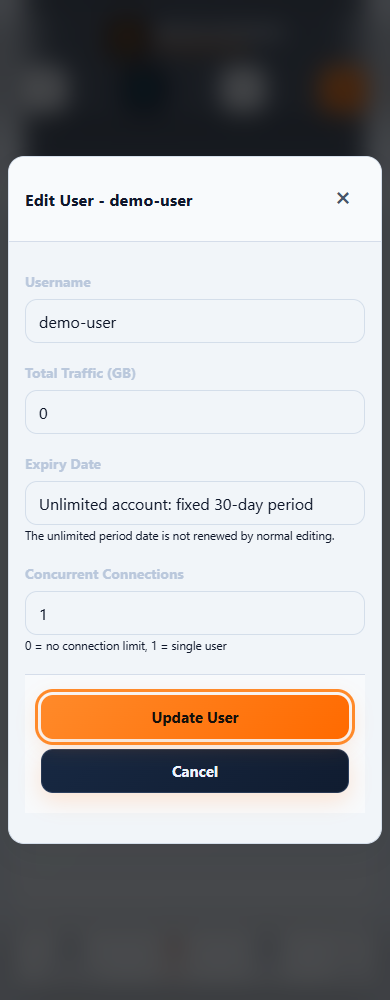
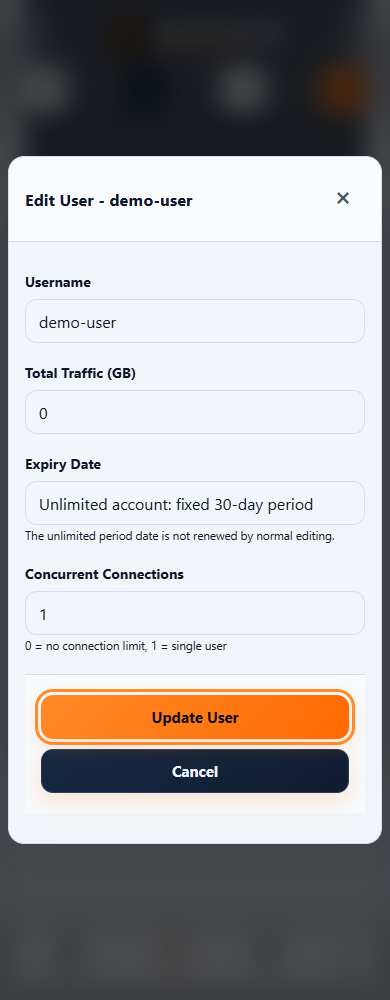
test: record final accessibility matrix and immutable ARM inputs

diff --git a/docs/VALIDATION-v1.0.57.md b/docs/VALIDATION-v1.0.57.md
@@ -13,8 +13,9 @@ The patch adds a shared native dialog wrapper, explicit boundary focus handling,
 - Fresh local quiet lint, production build and runtime npm audit PASS (zero reported vulnerabilities). Thirty-nine portable governance/version/template/brand tests PASS, zero skips; both frozen uv locks validate offline. Linux-dependent API/runtime tests remain CI coverage; Windows lacks `fcntl` and is not counted as passing those tests.
 - `frontend/tests/accessibility-smoke.mjs`: all nine actual admin routes plus unauthenticated login, EN/FA, light/dark,390/1440px; seventeen distinct dialogs, real keyboard navigation/focus/escape, visible focus, alert semantics and reduced motion. Exact URL assertions reject a build that silently redirects to Dashboard. A deliberately unnamed negative-control input must fail axe.
 - `frontend/tests/subscription-accessibility.mjs`: real Jinja rendering, eight EN/FA/theme/width combinations, page and open QR scans, focus containment/return. Local result:8 cases, zero reported violations,16 incomplete result groups retained for manual review.
-- Expanded native browser zoom/width keyboard matrix and final admin axe totals are being recorded; no pending result is counted as a pass.
-- Visual review exposed gradient-backed light-theme helper text near1.00:1 that axe left incomplete. A separate endpoint contrast regression reproduced it. After pairing the modal surface, labels and helper text with the light palette, the focused EN27/FA12 scans pass without violations; the final full matrix remains pending. Four synthetic EN/FA desktop/mobile focus images were refreshed and visually reviewed.
+- Final admin matrix PASS:80 page views,136 opened dialogs,216 axe scans, zero reported violations, one deliberately failing negative control.341 incomplete result groups remain recorded:205 contrast,128 symbolic close-name comparisons and8 empty-table associations. None is counted as a pass.
+- Real browser zoom keyboard matrix PASS:108 EN/FA × theme × nine-width ×100/125/150% combinations,216 page views and432 dialog openings across add/edit user, edit node and settings confirmation. After the final light surface correction, all54 light-theme combinations repeat PASS (108 page views/216 openings). Exact widths:360,375,390,430,768,1024,1366,1440,1920. These keyboard checks do not add another axe pass count.
+- Visual review exposed gradient-backed light-theme helper text near1.00:1 that axe left incomplete. A separate endpoint contrast regression reproduced it. After pairing the modal surface, labels and helper text with the light palette, focused EN27/FA12 scans and the final full matrix pass without violations. Four synthetic EN/FA desktop/mobile focus images were refreshed and visually reviewed.
 - CI runs existing browser/security/native tests plus both new axe gates. JSON artifacts retain failures and incomplete items. External requests are blocked; API responses and all screenshots are synthetic loopback fixtures.
 
 The extra local source56 “72 pages /1044 named actions” report was invalid as distinct-route evidence: that local build lacked `VITE_URLPATH=panel`, so navigation redirected to Dashboard. It is withdrawn. The new gate asserts route identity before testing, and login explicitly clears authentication. This does not invalidate the separate source56 CI, native installation, QR or sealed security evidence.

diff --git a/AGENTS.md b/AGENTS.md
@@ -72,6 +72,8 @@ Before implementation, record the task and target release here **and commit/push
 
 ### Active release ledger
 
+PVN-1041 final local accessibility evidence: actual admin/login80 views +136 dialogs/216 axe scans PASS, one failing negative control,341 incomplete groups retained (205 contrast,128 symbolic close names,8 empty tables). Subscription8 cases/16 scans PASS with16 contrast incomplete groups. Keyboard108 combinations/nine widths/native100-125-150% zoom with432 openings PASS; repeat all54 final light-theme combinations/216 openings PASS after correcting helper/label/surface colors. Quiet lint/build/npm runtime audit,39 portable tests, both frozen uv locks, docs113 links, privacy guard and four refreshed images PASS. Immutable public ARM harness accepts explicitly supplied full source/archive/version identities, validates them before download and preserves the older56 push fallback; YAML/two Python scripts and six input-guard cases PASS, actual57 ARM execution pending publication. Exact source CI/publication/bootstrap remain gates; no Production mutation or Stable promotion.
+
 PVN-1041 implementation checkpoint:39 local portable tests, quiet lint/build/runtime npm audit, both frozen uv locks and bilingual docs113 local links PASS. Actual route assertions replace the withdrawn source56 local72/1044 action-name count; public PR76/release56 descriptions corrected without tag/asset changes. Native dialog/labels/menu/skip/alert/motion/theme/QR regressions reproduce concrete failures. Focused final light-theme EN27/FA12 axe scans pass; full final axe/zoom matrix and exact Linux CI remain pending. Four synthetic focus images refreshed. Read-only Production health2026-10-17T15:57:45Z PASS with protected PIDs/restarts/DB/revision/env/VPN hashes unchanged, no recent5xx/traceback; live stays55. No Production mutation authorized or performed. Keep task open pending remaining applicable gates.
 
 - `v1.0.57` — [~] VALIDATION_IN_PROGRESS — `PVN-1041`: complete feasible isolated accessibility checks on existing admin/login/subscription flows (automated WCAG A/AA, labels/roles, keyboard and modal focus, visible focus, reduced motion, EN/FA and responsive/zoom). Reproduce concrete failures before minimal fixes; retain workflows and network/authorization boundaries. Source56 native security scan is already sealed, not restarted. Keep screen-reader/hardware and external ACME/VPS limitations explicit. No Production mutation, service restart, live certificate, DB, node, route or firewall change is authorized by this accessibility checkpoint. A new public QA patch is required if runtime behavior changes; Stable remains37 until applicable broader gates pass.
